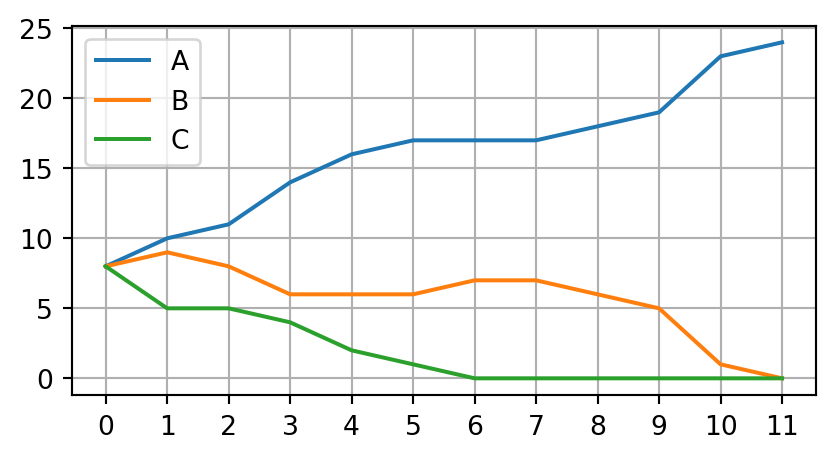
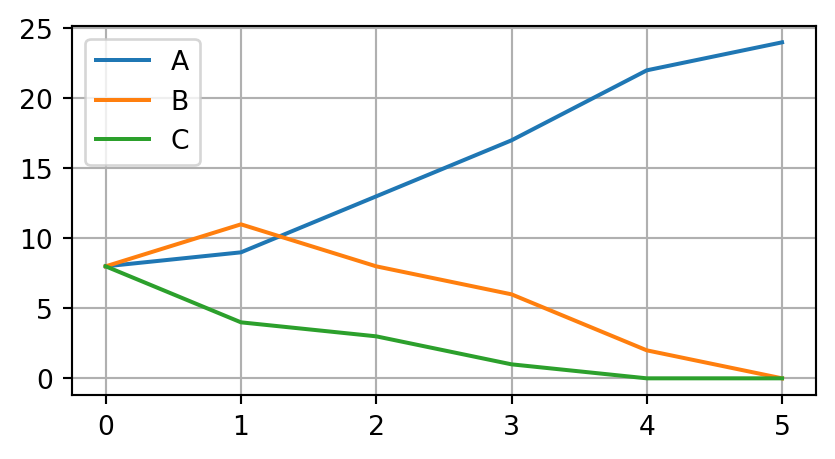
Built site for gh-pages

diff --git a/index.html b/index.html
@@ -247,10 +247,10 @@ window.Quarto = {
   gtag('config', 'G-3HLZHZMB0V');
 </script>
 <center>
-Concept by Elia Mascolo* and Yseult Héjja-Brichard
+Concept by <a href="https://eliamascolo.github.io/">Elia Mascolo</a> and <a href="https://yseulthb.github.io/">Yseult Héjja-Brichard</a>
 </center>
 <center>
-✉ eliamascolo94@gmail.com
+✉ <a href="mailto:eliamascolo94@gmail.com">eliamascolo94@gmail.com</a>
 </center>
 <p><br> <br></p>
 <p>The aim of this interactive class is to demonstrate how replicants that can inherit mutations can undergo evolution by natural selection if the inheritable characteristics can affect their reproductive success. <br> <br></p>
@@ -361,7 +361,7 @@ Concept by Elia Mascolo* and Yseult Héjja-Brichard
 </tbody>
 </table>
 <p>We can also visualize the number of <strong>A</strong>, <strong>B</strong> and <strong>C</strong> over generations through a line plot as follows.</p>
-<div id="c5595eb7" class="cell" data-execution_count="1">
+<div id="9a7f4a79" class="cell" data-execution_count="1">
 <div class="sourceCode cell-code" id="cb1"><pre class="sourceCode python code-with-copy"><code class="sourceCode python"><span id="cb1-1"><a href="#cb1-1" aria-hidden="true" tabindex="-1"></a><span class="im">import</span> matplotlib.pyplot <span class="im">as</span> plt</span>
 <span id="cb1-2"><a href="#cb1-2" aria-hidden="true" tabindex="-1"></a>plt.rcParams[<span class="st">'figure.figsize'</span>] <span class="op">=</span> [<span class="dv">5</span>, <span class="fl">2.5</span>]</span>
 <span id="cb1-3"><a href="#cb1-3" aria-hidden="true" tabindex="-1"></a>plt.plot([<span class="dv">8</span>, <span class="dv">16</span>, <span class="dv">21</span>], label<span class="op">=</span><span class="st">'A'</span>)</span>
@@ -504,7 +504,7 @@ Concept by Elia Mascolo* and Yseult Héjja-Brichard
 <li><code>create</code> : a function that can be used to generate the initial population. It requires to specify three parameters: (1) the type of organism, i.e., whatever name that identifies that type; (2) the (expected) reproductive success of that type of organism; (3) the number of organisms of that type that must be created.</li>
 </ul>
 <p>The code is imported as follows.</p>
-<div id="ac6cfb1d" class="cell" data-execution_count="2">
+<div id="f5a91ee7" class="cell" data-execution_count="2">
 <div class="sourceCode cell-code" id="cb2"><pre class="sourceCode python code-with-copy"><code class="sourceCode python"><span id="cb2-1"><a href="#cb2-1" aria-hidden="true" tabindex="-1"></a><span class="im">import</span> random</span>
 <span id="cb2-2"><a href="#cb2-2" aria-hidden="true" tabindex="-1"></a><span class="im">from</span> evo_sim_objects <span class="im">import</span> Population, create</span></code><button title="Copy to Clipboard" class="code-copy-button"><i class="bi"></i></button></pre></div>
 </div>
@@ -513,13 +513,13 @@ Concept by Elia Mascolo* and Yseult Héjja-Brichard
 <h3 class="anchored" data-anchor-id="settings">Settings</h3>
 <p>We can now set the initial condition (the population at “Generation 0”) for our evolutionary simulation.</p>
 <p>First, we set how many “organisms” per type are present at the beginning. Here we simulate the in-class experiment by setting three patterns, 8 copies each, for a total population size of <span class="math inline">\(N=24\)</span>.</p>
-<div id="6eb5f665" class="cell" data-execution_count="3">
+<div id="6937e933" class="cell" data-execution_count="3">
 <div class="sourceCode cell-code" id="cb3"><pre class="sourceCode python code-with-copy"><code class="sourceCode python"><span id="cb3-1"><a href="#cb3-1" aria-hidden="true" tabindex="-1"></a>n_a <span class="op">=</span> <span class="dv">8</span>  <span class="co"># Initial number of A</span></span>
 <span id="cb3-2"><a href="#cb3-2" aria-hidden="true" tabindex="-1"></a>n_b <span class="op">=</span> <span class="dv">8</span>  <span class="co"># Initial number of B</span></span>
 <span id="cb3-3"><a href="#cb3-3" aria-hidden="true" tabindex="-1"></a>n_c <span class="op">=</span> <span class="dv">8</span>  <span class="co"># Initial number of C</span></span></code><button title="Copy to Clipboard" class="code-copy-button"><i class="bi"></i></button></pre></div>
 </div>
 <p>Next, we can decide how easy it will be to replicate each type of pattern, by setting the expected (average) number of copies each pattern get at each generation.</p>
-<div id="8f1d4bff" class="cell" data-execution_count="4">
+<div id="360f6e23" class="cell" data-execution_count="4">
 <div class="sourceCode cell-code" id="cb4"><pre class="sourceCode python code-with-copy"><code class="sourceCode python"><span id="cb4-1"><a href="#cb4-1" aria-hidden="true" tabindex="-1"></a>w_a <span class="op">=</span> <span class="dv">12</span>  <span class="co"># Expected number of offspring for A per generation</span></span>
 <span id="cb4-2"><a href="#cb4-2" aria-hidden="true" tabindex="-1"></a>w_b <span class="op">=</span>  <span class="dv">8</span>  <span class="co"># Expected number of offspring for B per generation</span></span>
 <span id="cb4-3"><a href="#cb4-3" aria-hidden="true" tabindex="-1"></a>w_c <span class="op">=</span>  <span class="dv">4</span>  <span class="co"># Expected number of offspring for C per generation</span></span></code><button title="Copy to Clipboard" class="code-copy-button"><i class="bi"></i></button></pre></div>
@@ -528,7 +528,7 @@ Concept by Elia Mascolo* and Yseult Héjja-Brichard
 <section id="run-the-evolutionary-simulation" class="level3">
 <h3 class="anchored" data-anchor-id="run-the-evolutionary-simulation">Run the evolutionary simulation</h3>
 <p>We are now ready to run a computer simulation.</p>
-<div id="ef2f2109" class="cell" data-execution_count="5">
+<div id="3b2ea9a4" class="cell" data-execution_count="5">
 <div class="sourceCode cell-code" id="cb5"><pre class="sourceCode python code-with-copy"><code class="sourceCode python"><span id="cb5-1"><a href="#cb5-1" aria-hidden="true" tabindex="-1"></a><span class="im">import</span> random</span>
 <span id="cb5-2"><a href="#cb5-2" aria-hidden="true" tabindex="-1"></a><span class="im">from</span> evo_sim_objects <span class="im">import</span> Population, create</span>
 <span id="cb5-3"><a href="#cb5-3" aria-hidden="true" tabindex="-1"></a></span>
